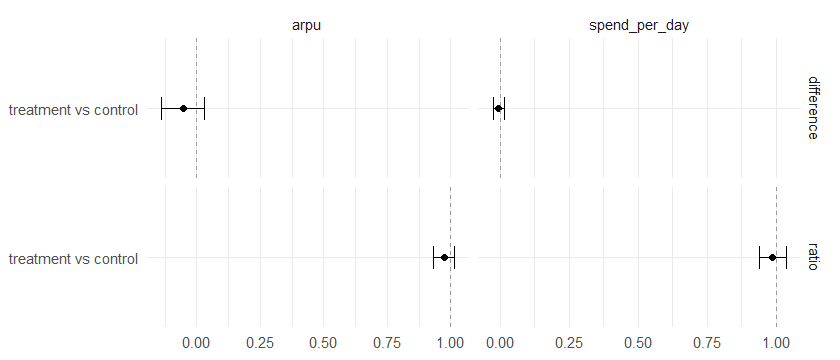
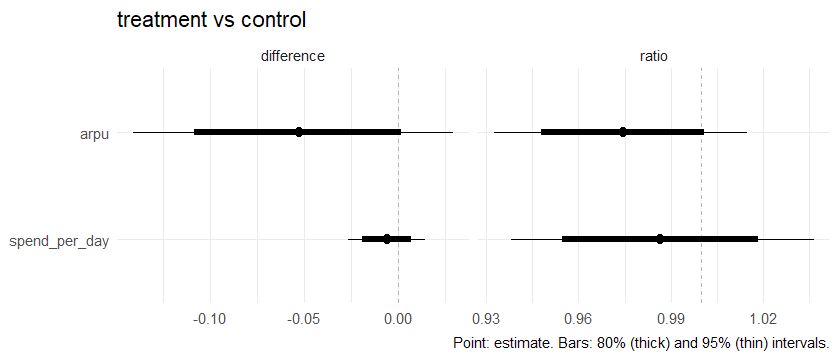
adjusted plot

diff --git a/README.md b/README.md
@@ -6,6 +6,7 @@
 
 <!-- badges: start -->
 [![R-CMD-check](https://github.com/nivr/bootabc/actions/workflows/R-CMD-check.yaml/badge.svg)](https://github.com/nivr/bootabc/actions/workflows/R-CMD-check.yaml)
+[![Codecov test coverage](https://codecov.io/gh/nivr/bootabc/branch/master/graph/badge.svg)](https://app.codecov.io/gh/nivr/bootabc?branch=master)
 [![Lifecycle: experimental](https://img.shields.io/badge/lifecycle-experimental-orange.svg)](https://lifecycle.r-lib.org/articles/stages.html#experimental)
 <!-- badges: end -->
 